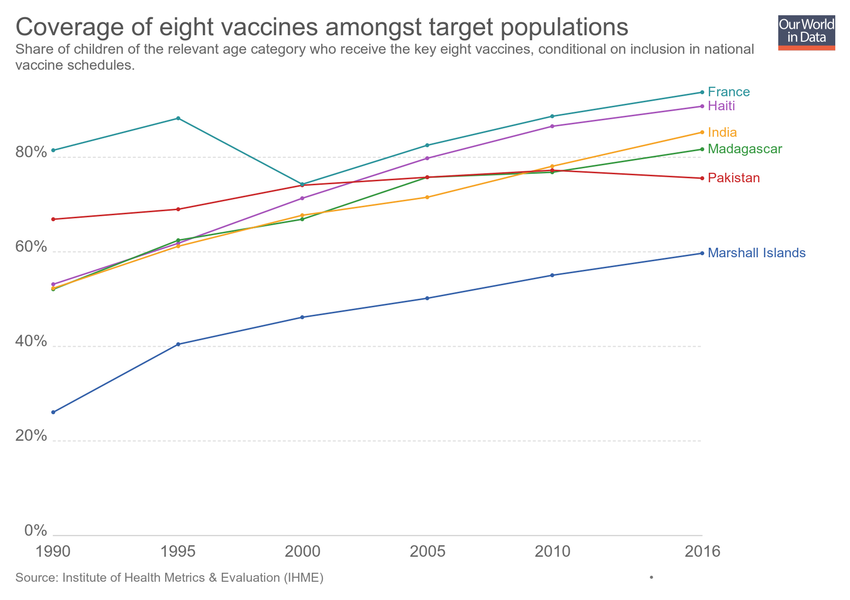
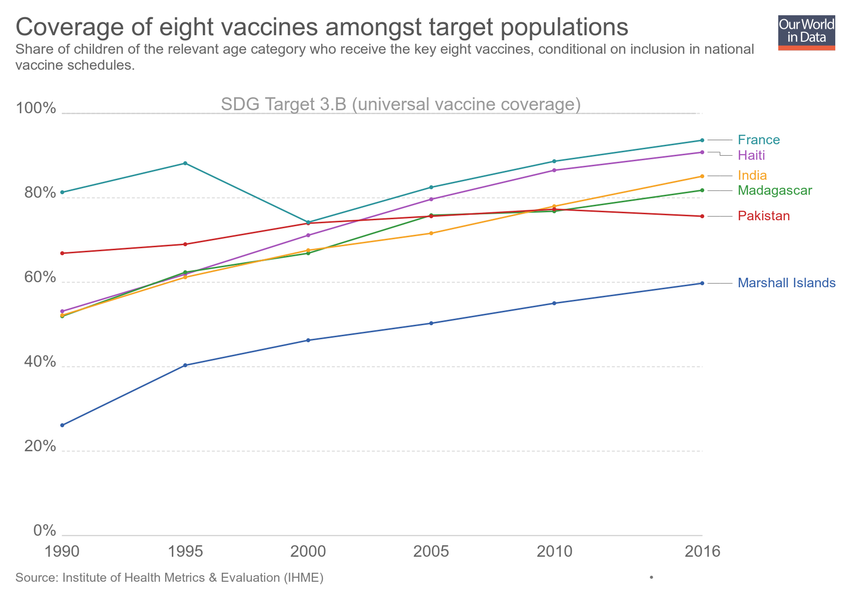
Updating chart coverage-of-eight-vaccines-sdgs

diff --git a/grapher/coverage-of-eight-vaccines-sdgs.html b/grapher/coverage-of-eight-vaccines-sdgs.html
@@ -1,4 +1,4 @@
-<!doctype html><html><head><meta name="viewport" content="width=device-width, initial-scale=1" /><title>Coverage of eight vaccines amongst target populations - Our World in Data</title><meta name="description" content="Share of children of the relevant age category who receive the key eight vaccines, conditional on inclusion in national vaccine schedules." /><link rel="canonical" href="https://ourworldindata.org/grapher/coverage-of-eight-vaccines-sdgs" /><meta property="fb:app_id" content="1149943818390250" /><meta property="og:url" content="https://ourworldindata.org/grapher/coverage-of-eight-vaccines-sdgs" /><meta property="og:title" content="Coverage of eight vaccines amongst target populations" /><meta property="og:description" content="Share of children of the relevant age category who receive the key eight vaccines, conditional on inclusion in national vaccine schedules." /><meta property="og:image" content="https://ourworldindata.org/grapher/exports/coverage-of-eight-vaccines-sdgs.png?v=1" /><meta property="og:image:width" content="850" /><meta property="og:image:height" content="600" /><meta property="og:site_name" content="Our World in Data" /><meta name="twitter:card" content="summary_large_image" /><meta name="twitter:site" content="@OurWorldInData" /><meta name="twitter:creator" content="@OurWorldInData" /><meta name="twitter:title" content="Coverage of eight vaccines amongst target populations" /><meta name="twitter:description" content="Share of children of the relevant age category who receive the key eight vaccines, conditional on inclusion in national vaccine schedules." /><meta name="twitter:image" content="https://ourworldindata.org/grapher/exports/coverage-of-eight-vaccines-sdgs.png?v=1" /><style>
+<!doctype html><html><head><meta name="viewport" content="width=device-width, initial-scale=1" /><title>Coverage of eight vaccines amongst target populations - Our World in Data</title><meta name="description" content="Share of children of the relevant age category who receive the key eight vaccines, conditional on inclusion in national vaccine schedules." /><link rel="canonical" href="https://ourworldindata.org/grapher/coverage-of-eight-vaccines-sdgs" /><meta property="fb:app_id" content="1149943818390250" /><meta property="og:url" content="https://ourworldindata.org/grapher/coverage-of-eight-vaccines-sdgs" /><meta property="og:title" content="Coverage of eight vaccines amongst target populations" /><meta property="og:description" content="Share of children of the relevant age category who receive the key eight vaccines, conditional on inclusion in national vaccine schedules." /><meta property="og:image" content="https://ourworldindata.org/grapher/exports/coverage-of-eight-vaccines-sdgs.png?v=3" /><meta property="og:image:width" content="850" /><meta property="og:image:height" content="600" /><meta property="og:site_name" content="Our World in Data" /><meta name="twitter:card" content="summary_large_image" /><meta name="twitter:site" content="@OurWorldInData" /><meta name="twitter:creator" content="@OurWorldInData" /><meta name="twitter:title" content="Coverage of eight vaccines amongst target populations" /><meta name="twitter:description" content="Share of children of the relevant age category who receive the key eight vaccines, conditional on inclusion in national vaccine schedules." /><meta name="twitter:image" content="https://ourworldindata.org/grapher/exports/coverage-of-eight-vaccines-sdgs.png?v=3" /><style>
         html, body {
             height: 100%;
             margin: 0;
@@ -20,8 +20,8 @@
         }
     </style><noscript><style>
                     figure { display: none !important; }
-                </style></noscript><link rel="stylesheet" href="https://ourworldindata.org/grapher/assets/commons.bundle.dcbbe53805c487d5e57617b10ac73a8a.css" /><link rel="preload" href="/grapher/data/variables/96560.json?v=1" as="fetch" crossorigin /></head><body class="singleChart"><figure data-grapher-src="/grapher/coverage-of-eight-vaccines-sdgs"></figure><noscript id="fallback"><img src="/grapher/exports/coverage-of-eight-vaccines-sdgs.svg" /><p>Interactive visualization requires JavaScript</p></noscript><script src="https://cdn.polyfill.io/v2/polyfill.min.js?features=es6,fetch"></script><script src="https://ourworldindata.org/grapher/assets/commons.bundle.da523acc49807a06a11f.js"></script><script src="https://ourworldindata.org/grapher/assets/charts.bundle.da523acc49807a06a11f.js"></script><script>
-        var jsonConfig = {"map":{"projection":"World","targetYear":2016,"variableId":96560,"equalSizeBins":true,"baseColorScheme":"YlGnBu","isManualBuckets":true,"colorSchemeLabels":[],"colorSchemeValues":[20,40,50,60,70,80,90,100],"customNumericColors":[null,null,null],"customCategoryColors":{},"customCategoryLabels":{},"customHiddenCategories":{}},"tab":"chart","slug":"coverage-of-eight-vaccines-sdgs","type":"LineChart","title":"Coverage of eight vaccines amongst target populations","xAxis":{"scaleType":"linear"},"yAxis":{"min":0,"scaleType":"linear"},"version":1,"subtitle":"Share of children of the relevant age category who receive the key eight vaccines, conditional on inclusion in national vaccine schedules.","hasMapTab":true,"stackMode":"absolute","dimensions":[{"display":{"unit":"%"},"property":"y","variableId":96560}],"sourceDesc":"Institute of Health Metrics & Evaluation (IHME)","hasChartTab":true,"isPublished":true,"selectedData":[{"index":0,"entityId":145},{"index":0,"entityId":223},{"index":0,"entityId":118},{"index":0,"entityId":137},{"index":0,"entityId":101},{"index":0,"entityId":3}],"internalNotes":"SDG Tracker","addCountryMode":"add-country","id":2731};
+                </style></noscript><link rel="stylesheet" href="https://ourworldindata.org/grapher/assets/commons.bundle.dcbbe53805c487d5e57617b10ac73a8a.css" /><link rel="preload" href="/grapher/data/variables/96560.json?v=3" as="fetch" crossorigin /></head><body class="singleChart"><figure data-grapher-src="/grapher/coverage-of-eight-vaccines-sdgs"></figure><noscript id="fallback"><img src="/grapher/exports/coverage-of-eight-vaccines-sdgs.svg" /><p>Interactive visualization requires JavaScript</p></noscript><script src="https://cdn.polyfill.io/v2/polyfill.min.js?features=es6,fetch"></script><script src="https://ourworldindata.org/grapher/assets/commons.bundle.da523acc49807a06a11f.js"></script><script src="https://ourworldindata.org/grapher/assets/charts.bundle.da523acc49807a06a11f.js"></script><script>
+        var jsonConfig = {"id":2731,"map":{"projection":"World","targetYear":2016,"variableId":96560,"equalSizeBins":true,"baseColorScheme":"YlGnBu","isManualBuckets":true,"colorSchemeLabels":[],"colorSchemeValues":[20,40,50,60,70,80,90,100],"customNumericColors":[null,null,null],"customCategoryColors":{},"customCategoryLabels":{},"customHiddenCategories":{}},"tab":"chart","slug":"coverage-of-eight-vaccines-sdgs","type":"LineChart","title":"Coverage of eight vaccines amongst target populations","xAxis":{"scaleType":"linear"},"yAxis":{"max":105,"min":0,"scaleType":"linear"},"version":3,"subtitle":"Share of children of the relevant age category who receive the key eight vaccines, conditional on inclusion in national vaccine schedules.","hasMapTab":true,"stackMode":"absolute","dimensions":[{"display":{"unit":"%"},"property":"y","variableId":96560}],"sourceDesc":"Institute of Health Metrics & Evaluation (IHME)","hasChartTab":true,"isPublished":true,"selectedData":[{"index":0,"entityId":145},{"index":0,"entityId":223},{"index":0,"entityId":118},{"index":0,"entityId":137},{"index":0,"entityId":101},{"index":0,"entityId":3}],"internalNotes":"SDG Tracker","addCountryMode":"add-country","comparisonLine":{"label":"SDG Target 3.B (universal vaccine coverage)","yEquals":"100"}};
         var figure = document.getElementsByTagName("figure")[0];
         try {
             window.App = {};
